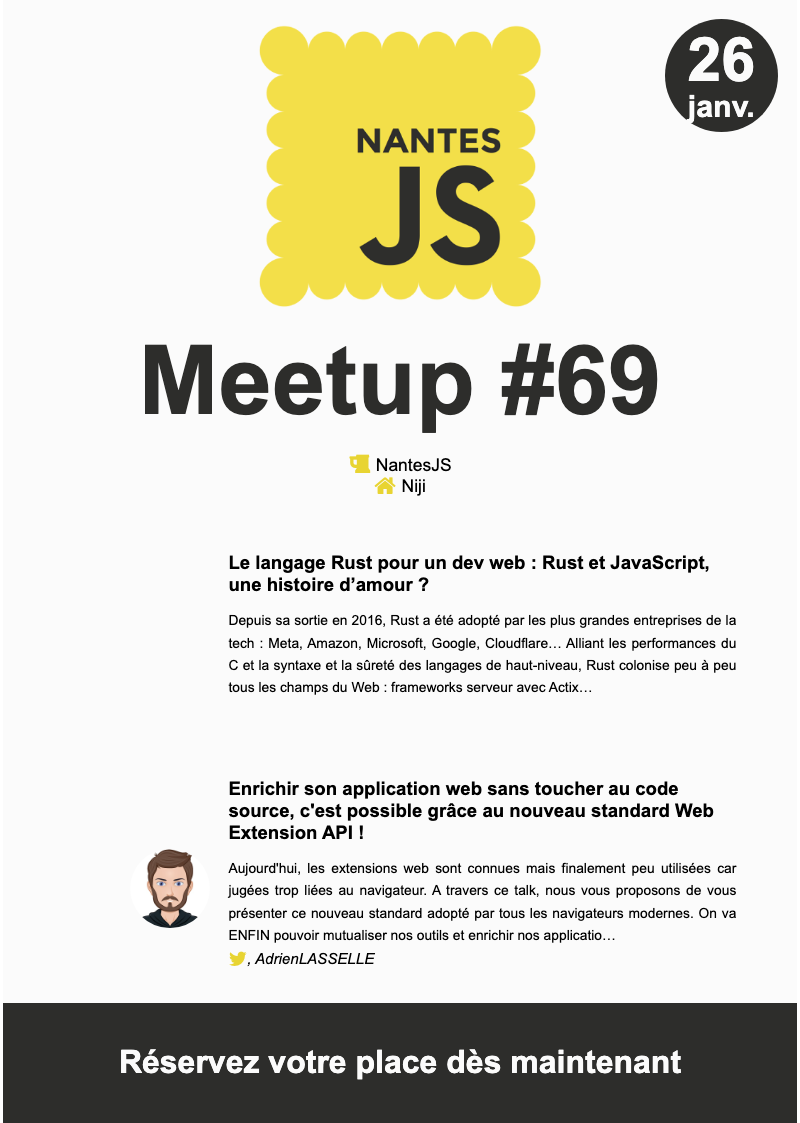
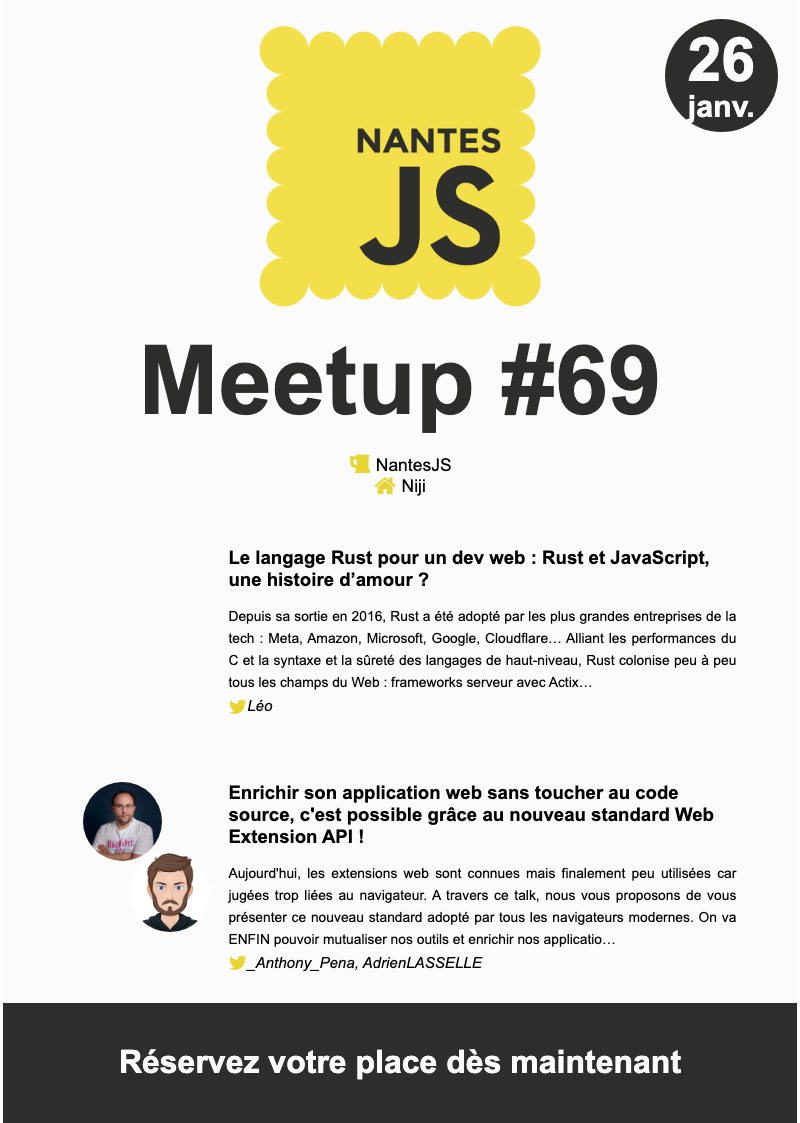
:bug: Display speakers names even if they don't have twitter

Changed region(s): [[0.2812, 0.6857, 0.9375, 0.8727], [0.2812, 0.4675, 0.9375, 0.6545], [0.0938, 0.6857, 0.25, 0.8415]]

diff --git a/gatsby-node.js b/gatsby-node.js
@@ -183,7 +183,7 @@ function prepareDataForMeetupTemplate (meetup) {
 
         return speaker
       })
-      talk.twitterHandles = talk.speakers.map(s => s.handle).join(', ')
+      talk.twitterHandles = talk.speakers.map(s => s.handle || s.name).join(', ')
       return talk
     }),
   }

diff --git a/datas/meetups/meetup-69.md b/datas/meetups/meetup-69.md
@@ -35,6 +35,7 @@ talks:
       -
           id: '2db847ff-266d-4cbb-acd6-1345757cf5c0'
           name: 'Anthony Pena'
+          link: '_Anthony_Pena'
       -
           id: 'a1616468-1112-4187-bfea-16ebf02a259c'
           name: 'Adrien Lasselle'
